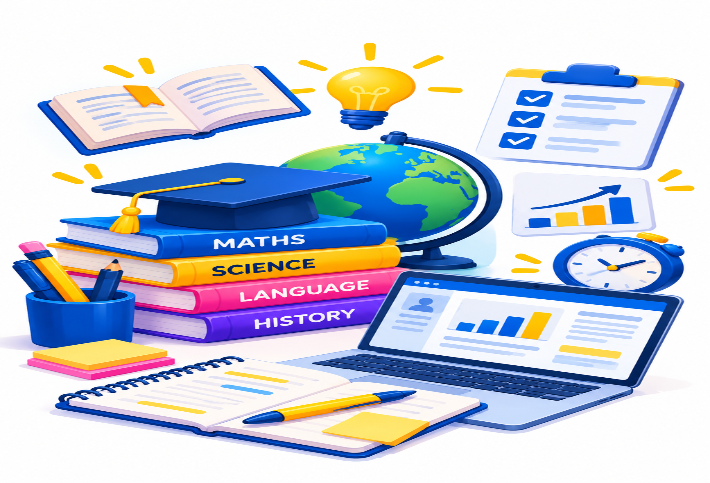
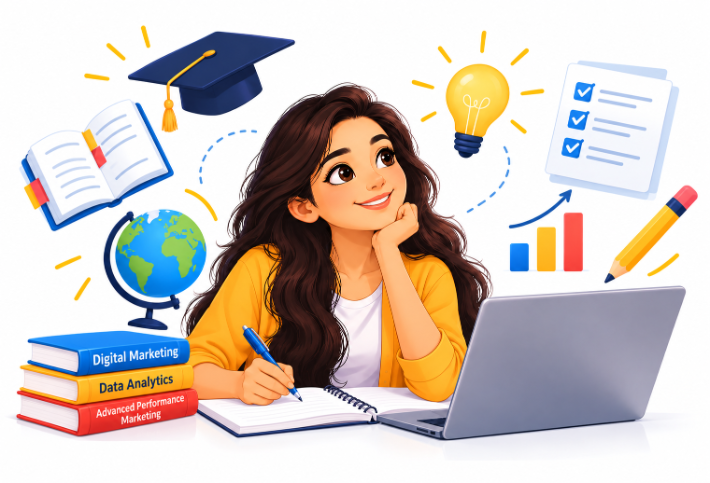
New images at Hero section v12

diff --git a/src/Hero.jsx b/src/Hero.jsx
@@ -7,6 +7,8 @@ const Hero = () => {
     "/images/hero/creative-skills.png",
     "/images/hero/academic-skills.png",
     "/images/hero/no-code-skills.png",
+    "/images/hero/communication-skills.png",
+    "/images/hero/career-discovery.png"
   ];
 
   const skills = [
@@ -24,11 +26,11 @@ const Hero = () => {
     },
     {
       title: "Communication Skills",
-      image: images[0],
+      image: images[3],
     },
     {
       title: "Career Discovery",
-      image: images[1],
+      image: images[4],
     },
   ];
 
